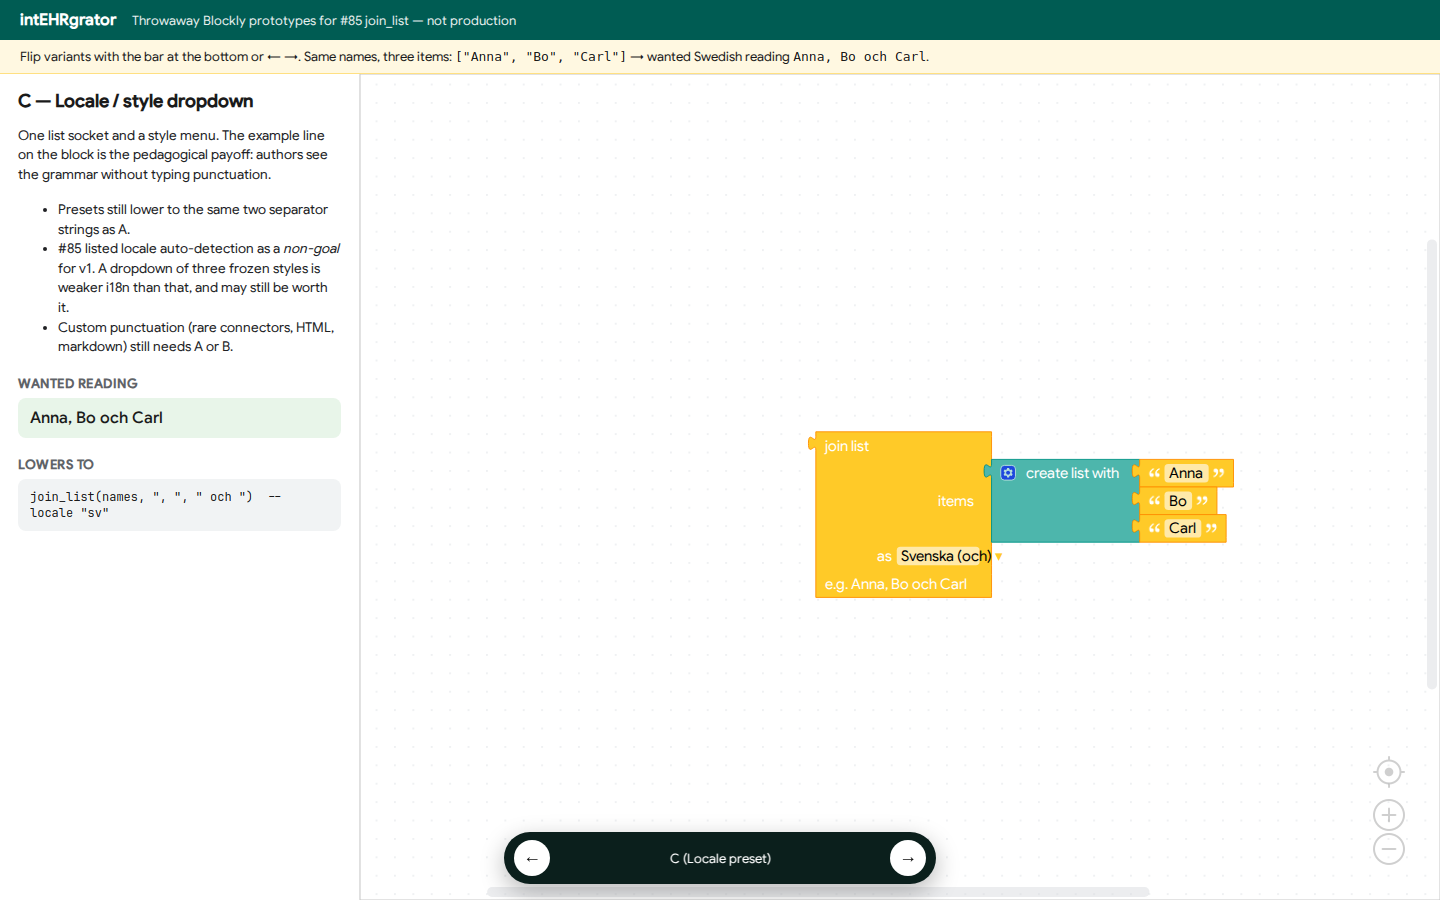
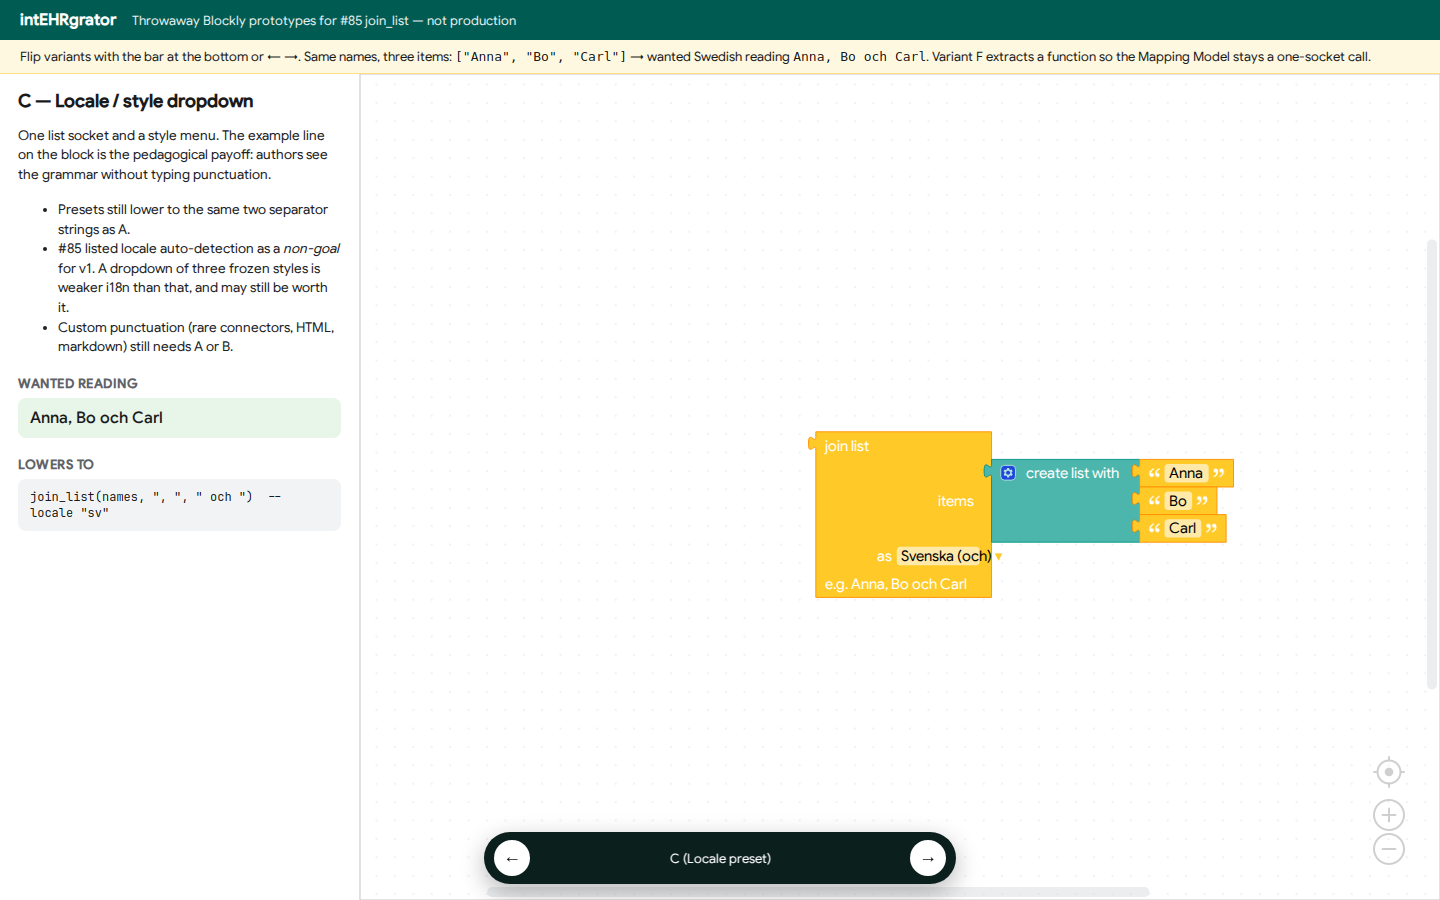
Place the join_swedish function under the Mapping Model tree.
The CLUSTER+ELEMENT call sites are wide; putting the definition to the
right overlapped them. Also capture variant F screenshots for the write-up.

Changed region(s): [[0.6562, 0.0622, 0.9375, 0.0933], [0.5938, 0.9022, 0.6875, 0.9956], [0.3125, 0.9022, 0.4062, 0.9956]]

diff --git a/web/prototype_join_list.ts b/web/prototype_join_list.ts
@@ -413,12 +413,12 @@ const VARIANTS: Record<VariantKey, Variant> = {
       The yellow <code>join_list</code> lives <em>once</em> in the helper; main code is a
       one-socket call.</p>
       <ul>
-        <li>Left: Mapping Model — CLUSTER / ELEMENT / DV_TEXT, the same grain as a
+        <li>Top: Mapping Model — CLUSTER / ELEMENT / DV_TEXT, the same grain as a
           real openEHR slot. Lung-MDT <em>Närvarande</em> is this ELEMENT.</li>
         <li>Call: <code>join_swedish(📋 source list deltagare/namn)</code> — no
           separators at the slot.</li>
-        <li>Right: the extracted function. Parameter <code>names</code> feeds
-          variant A’s reporter. A second ELEMENT can reuse the same call.</li>
+        <li>Below: the extracted function. Parameter <code>names</code> feeds
+          variant A’s reporter. A second ELEMENT reuses the same call.</li>
       </ul>
       <p>This is the compact main-code shape: bake locale punctuation into a named
       helper, not into every ELEMENT. A 3-arg <code>join_list(items, sep, final)</code>
@@ -431,8 +431,6 @@ const VARIANTS: Record<VariantKey, Variant> = {
     `,
     build(ws) {
       const def = defineJoinSwedish(ws);
-      place(def, 520, 16);
-
       const cluster = ready(ws.newBlock(PROTOTYPE_CLUSTER));
       cluster.setFieldValue("Lung-MDT", "NAME");
 
@@ -459,6 +457,9 @@ const VARIANTS: Record<VariantKey, Variant> = {
       narvarande.nextConnection?.connect(kort.previousConnection!);
 
       place(cluster, 16, 16);
+      // Function library sits under the Mapping Model so the two call sites
+      // stay a compact left-to-right tree (CLUSTER is wide).
+      place(def, 16, 340);
     },
   },
 };
@@ -500,7 +501,7 @@ function loadVariant(key: VariantKey): void {
   workspace.clear();
   const v = VARIANTS[key];
   v.build(workspace);
-  workspace.setScale(key === "E" ? 0.78 : key === "F" ? 0.82 : 0.92);
+  workspace.setScale(key === "E" || key === "F" ? 0.78 : 0.92);
   workspace.scrollCenter();
   renderSide(v);
   document.body.dataset.protoReady = key;
